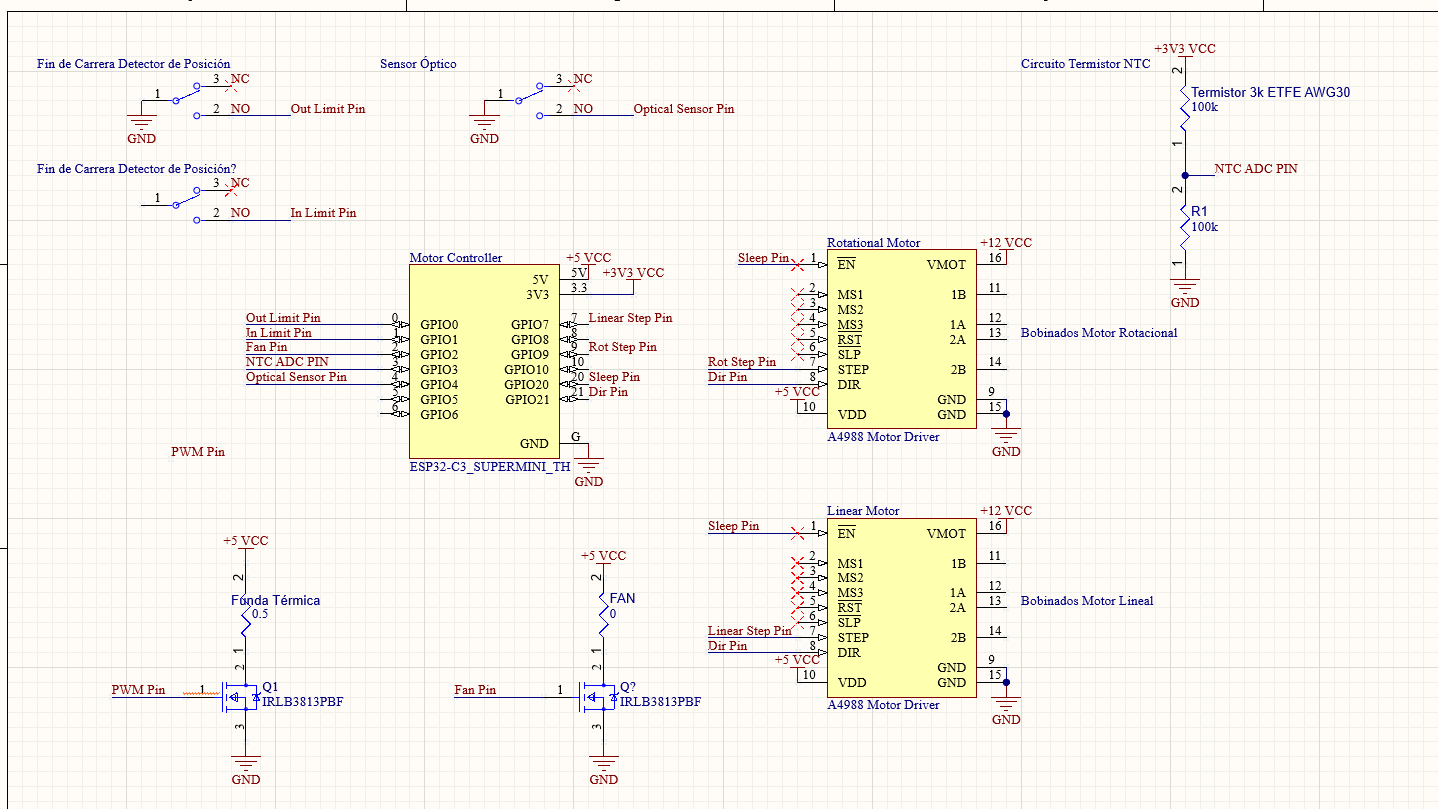
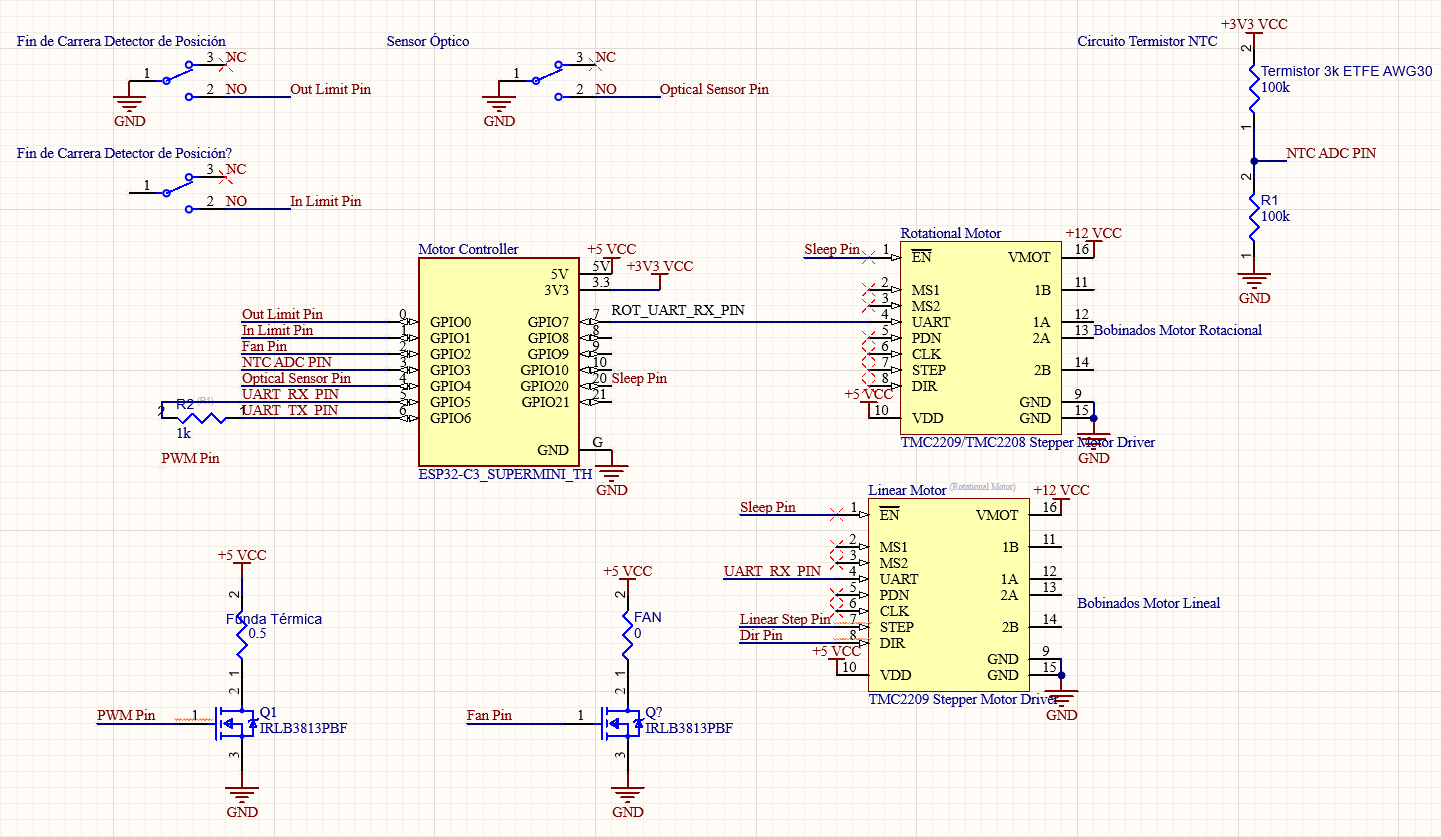
added stall detection error.

diff --git a/backend/experiment.py b/backend/experiment.py
@@ -356,18 +356,63 @@ class IntegratedExperimentController:
             (the run loop then handles the cancellation path).
         """
         auto_retried = False
+        load_fault_retried = False
         while True:
             if self.banco.cancel_requested:
                 return False
 
             await self._status(f"{label}…")
             await self._log(command)
-            ok = await self.banco.send_command(command)
+            status = await self._send_motor_command_status(command)
+            ok = status in ("COMPLETE", "STOPPED")
 
             if self.banco.cancel_requested:
                 return False
             if ok:
                 return True
+
+            if self._is_linear_load_fault(command, status):
+                if self.unsupervised:
+                    if load_fault_retried:
+                        await self._log(
+                            "✗ Load fault repeated after automatic recovery — "
+                            "cancelling experiment"
+                        )
+                        self.auto_cancelled = True
+                        self.banco.cancel_requested = True
+                        return False
+
+                    load_fault_retried = True
+                    await self._log(
+                        "Linear movement blocked — moving OUT before retry"
+                    )
+                    recovery_status = await self._send_motor_command_status(
+                        "MOVEOUTHOME"
+                    )
+                    recovery_ok = recovery_status in ("COMPLETE", "STOPPED")
+                    if not recovery_ok:
+                        await self._log(
+                            "✗ Automatic MOVEOUTHOME recovery failed — "
+                            "cancelling experiment"
+                        )
+                        self.auto_cancelled = True
+                        self.banco.cancel_requested = True
+                        return False
+                    self.banco.motor_is_in = False
+                    continue
+
+                await self._pause_for_user({
+                    "type": "motor_load",
+                    "command": command,
+                    "message": (
+                        f"El movimiento {label} parece bloqueado. "
+                        "Comprueba si hay algo que impida el movimiento "
+                        "del motor."
+                    ),
+                })
+                if await self._await_resume_or_cancel():
+                    return False
+                continue
 
             if self.unsupervised:
                 if auto_retried:
@@ -395,6 +440,21 @@ class IntegratedExperimentController:
             })
             if await self._await_resume_or_cancel():
                 return False
+
+    async def _send_motor_command_status(self, command: str) -> str:
+        """Send a motor command while retaining the ESP32 response status."""
+        send_with_status = getattr(self.banco, "send_command_status", None)
+        if send_with_status is not None:
+            return str(await send_with_status(command)).strip().upper()
+        return "COMPLETE" if await self.banco.send_command(command) else "ERROR"
+
+    @staticmethod
+    def _is_linear_load_fault(command: str, status: str) -> bool:
+        """Return whether a linear homing command hit the load detector."""
+        linear_command = command in ("MOVEINHOME", "MOVEOUTHOME")
+        return linear_command and status.startswith(
+            "ERROR: SOMETHING IS BLOCKING THE MOVEMENT."
+        )
 
     async def _check_sensor_before_move_in(self, position: int) -> bool:
         """Require the carousel optical sensor to be LOW before arm entry."""
@@ -999,4 +1059,3 @@ class IntegratedExperimentController:
         ts = datetime.now().strftime("%H:%M:%S")
         await self._emit("log", message=f"[{ts}] {message}",
                          timestamp=datetime.now().isoformat())
-

diff --git a/backend/controller.py b/backend/controller.py
@@ -80,6 +80,11 @@ class BleController:
         Dispatch a motor command to the BLE loop and await COMPLETE.
         Fully awaitable from the experiment loop.
         """
+        result = await self.send_command_status(command)
+        return result in ("COMPLETE", "STOPPED")
+
+    async def send_command_status(self, command: str) -> str:
+        """Dispatch a motor command and return its raw ESP32 status."""
         cf = asyncio.run_coroutine_threadsafe(self._ble_send(command), self._ble_loop)
         return await asyncio.wrap_future(cf)
 
@@ -216,10 +221,10 @@ class BleController:
         self._log_sync("Disconnected from ESP32")
         self._emit_sync("connection_status", message="Disconnected", connected=False)
 
-    async def _ble_send(self, command: str) -> bool:
+    async def _ble_send(self, command: str) -> str:
         if not self.connected or not self._client:
             self._log_sync("✗ Not connected to ESP32")
-            return False
+            return "ERROR"
         try:
             self._log_sync(f"→ {command}")
             # Future lives on the BLE loop — safe to create and await here
@@ -233,17 +238,17 @@ class BleController:
             self._log_sync(f"← {result}")
             if result in ("COMPLETE", "STOPPED"):
                 self._log_sync("✓ Movement completed")
-                return True
+                return result
             else:
                 self._log_sync(f"✗ Unexpected response: {result}")
-                return False
+                return result
         except asyncio.TimeoutError:
             self._log_sync(f"✗ Timeout waiting for response to {command}")
-            return False
+            return "TIMEOUT"
         except Exception as e:
             self._log_sync(f"✗ Error sending {command}: {e}")
             self.connected = False
-            return False
+            return "ERROR"
         finally:
             self._pending_future = None
 

diff --git a/README.md b/README.md
@@ -64,6 +64,10 @@ Integrated Experiment Controller orchestrates the full measurement workflow:
   - Failed serial link → auto-reopen; if that fails → cancel.
   - Several incidents at once are retried in order (serial → BLE → motor); if any step fails → cancel.
   - On auto-cancel the standard safety sequence runs and the frontend plays the **error tone** with a dedicated modal.
+- **Linear movement load detection**: the ESP32 reports blocked `MOVEINHOME` or `MOVEOUTHOME` movements as `ERROR: Something is blocking the movement. SG_RESULT:<value>`.
+  - In supervised mode, the experiment pauses with the existing banner and asks the operator to check for anything blocking the motor. **Continuar** retries the failed movement.
+  - In unsupervised mode, the system sends `MOVEOUTHOME` before retrying the failed linear movement. If that recovery fails, or the load fault appears again, the experiment is cancelled through the standard safety path.
+  - This special handling applies only to linear homing commands; rotational movement, fan commands, manual experiments, and generic motor failures keep their existing behavior.
 - **Dual progress bars** during an experiment: a green per-phase bar (pre-conditioning / acquisition / desorption) and a blue global bar showing overall experiment progress and time remaining.
 - **Manual experiment completion alerts**: success sound + completion popup at the end of a manual run.
 - **Mutual mode lock**: manual and integrated experiments cannot run at the same time; each start button is disabled while the other mode runs.
@@ -634,4 +638,3 @@ The ESP32 responds via notifications on the Status characteristic (`AA000003-…
 ## Author
 
 V. Fernández
-
